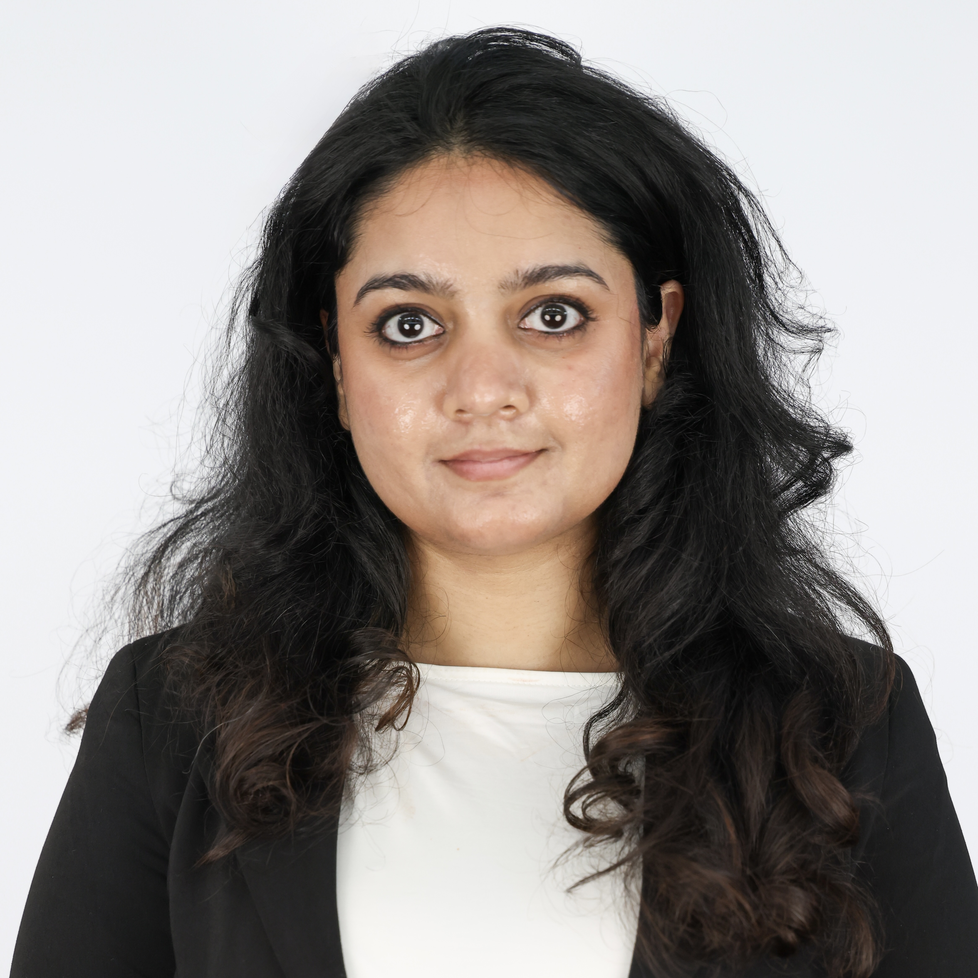
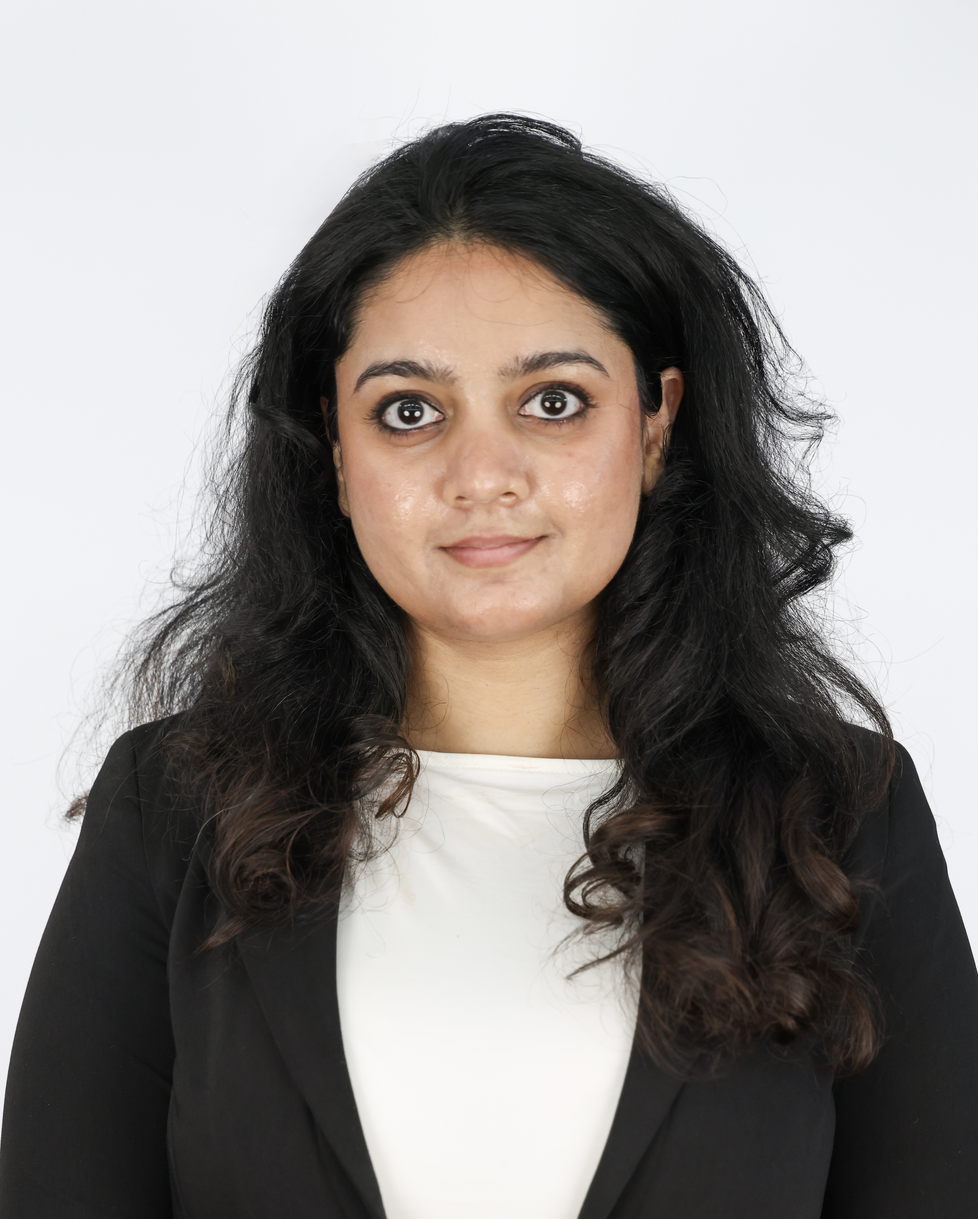
team page updates

diff --git a/_site/lab.html b/_site/lab.html
@@ -139,13 +139,6 @@ ul.task-list li input[type="checkbox"] {
    
   <ul>
   <li><a href="#phd-students" id="toc-phd-students" class="nav-link active" data-scroll-target="#phd-students">PhD Students</a></li>
-  <li><a href="#lab-manager" id="toc-lab-manager" class="nav-link" data-scroll-target="#lab-manager">Lab Manager</a></li>
-  <li><a href="#principal-investigator" id="toc-principal-investigator" class="nav-link" data-scroll-target="#principal-investigator">Principal Investigator</a>
-  <ul class="collapse">
-  <li><a href="#dr.-caitlin-grady" id="toc-dr.-caitlin-grady" class="nav-link" data-scroll-target="#dr.-caitlin-grady"><strong>Dr.&nbsp;Caitlin Grady</strong></a></li>
-  </ul></li>
-  <li><a href="#alumni" id="toc-alumni" class="nav-link" data-scroll-target="#alumni">Alumni</a></li>
-  <li><a href="#student-awards" id="toc-student-awards" class="nav-link" data-scroll-target="#student-awards">Student Awards</a></li>
   </ul>
 </nav>
 </nav>
@@ -197,6 +190,13 @@ ul.task-list li input[type="checkbox"] {
 <section id="madelyn-mccarthy" class="level3">
 <h3 class="anchored" data-anchor-id="madelyn-mccarthy"><strong>Madelyn McCarthy</strong></h3>
 <p>Madelyn is a graduate student studying Environmental and Sustainability Management at Georgetown University McDonough School of Business. Her research interests focus on the global green energy transition and on exploring how science, business, and policy can collaborate to create meaningful environmental change. Outside of the lab, Madelyn enjoys traveling, practicing Pilates, and discovering new matcha spots.</p>
+<p><br></p>
+<div class="float-left">
+<p><br></p>
+<p><img src="images/lab/sai.jpg" width="150px"></p>
+<section id="sai-lekhana" class="level3">
+<h3 class="anchored" data-anchor-id="sai-lekhana"><strong>Sai Lekhana</strong></h3>
+<p>Sai Lekhana is a master’s student in the Engineering Management program at George Washington University. She completed an Integrated Master of Science in Chemistry from the S V National Institute of Technology in 2024, and plans to build her career as a project or program manager. In summer 2026, Sai worked as a Volunteer Systems &amp; Platform Intern at Engineers Without Borders USA, where she improved the organization’s Salesforce data quality, gathered staff input that shaped its first AI policy, and coordinated a digital platform migration across teams. She is skilled in R, SQL, and data visualization. She also serves as a President GW Net Impact, a student organization focused on sustainability and social impact. Outside the lab, she paints, with a particular love for stencil art portraits.</p>
 </section>
 </div>
 <p><br></p>
@@ -285,6 +285,8 @@ B.S., Science and Technology Studies, Virginia Tech (Humanities, Science, and th
 <p><em>Current and prospective students are encouraged to contact Dr.&nbsp;Grady for opportunities.</em></p>
 
 
+</section>
+</div>
 </section>
 
 </main> <!-- /main -->
